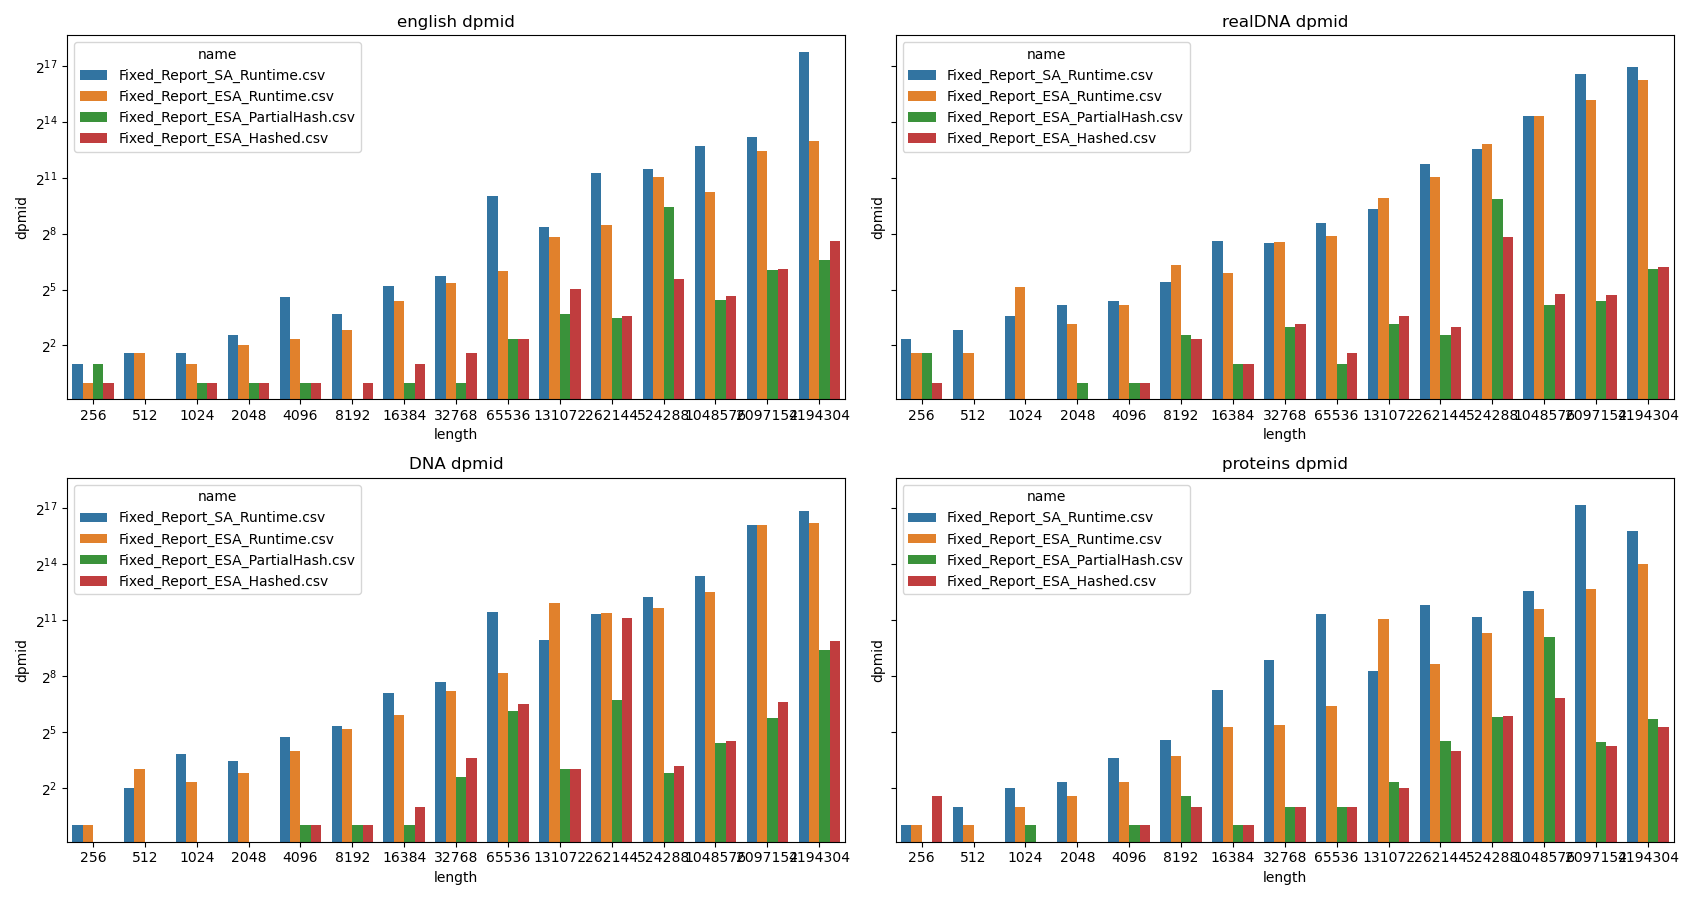
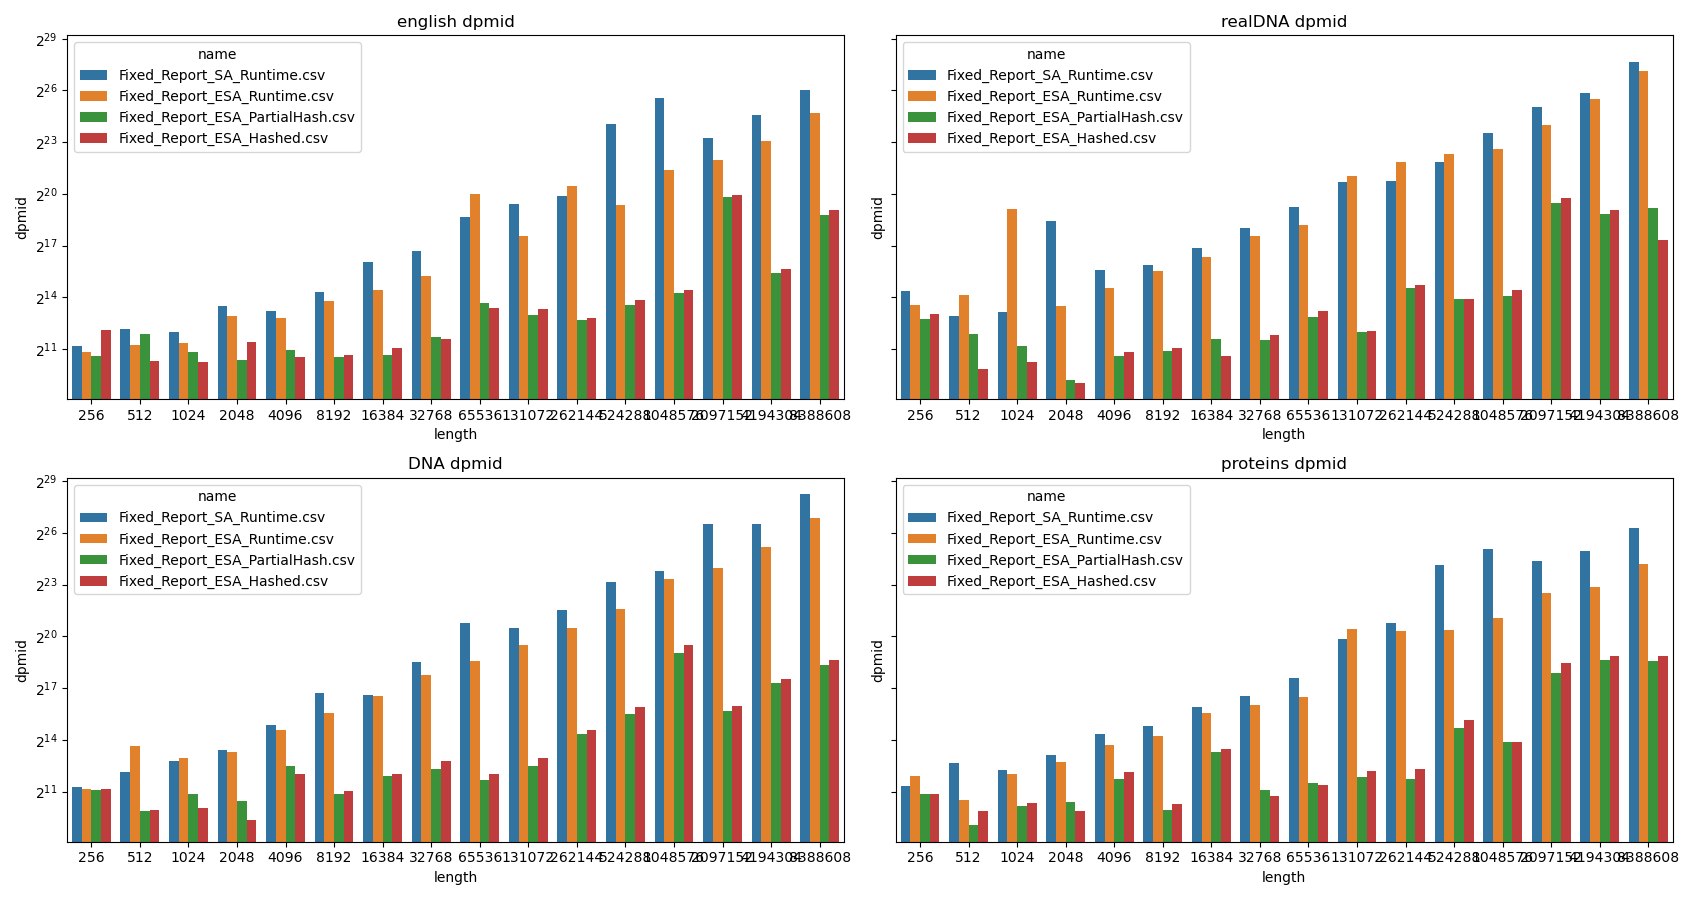
final diagrams

diff --git a/figures/singlePatternComparison.py b/figures/singlePatternComparison.py
@@ -5,15 +5,16 @@ import numpy as np
 import pandas as pd
 import matplotlib.pyplot as plt
 
-path = os.getcwd() + '\\Results_32\\'
+path = os.getcwd() + '\\Results\\'
 data_structures = [f for f in os.listdir(path) if os.path.isfile(os.path.join(path,f))]
 query = ['topMatching', 'midMatching', 'botMatching', 'construction', 'topReporting', 'midReporting', 'botReporting']
 
 dfAll = pd.DataFrame()
 for ds in data_structures:
-    df = pd.read_csv(path + ds)
-    df['name'] = ds
-    dfAll = pd.concat([df,dfAll])
+    if ds.startswith('Suffix') or ds.startswith('Precomp') or ds.startswith('Enhanced'):
+        df = pd.read_csv(path + ds)
+        df['name'] = ds
+        dfAll = pd.concat([df,dfAll])
     
 
 for q in query:

diff --git a/figures/createExistenceAndCountPlots.py b/figures/createExistenceAndCountPlots.py
@@ -5,7 +5,7 @@ import numpy as np
 import pandas as pd
 import matplotlib.pyplot as plt
 
-path = os.getcwd() + '\\Results_3\\'
+path = os.getcwd() + '\\Results\\'
 data_structures = [f for f in os.listdir(path) if os.path.isfile(os.path.join(path,f))]
 
 

diff --git a/figures/createFixedReportingPlots.py b/figures/createFixedReportingPlots.py
@@ -5,7 +5,7 @@ import numpy as np
 import pandas as pd
 import matplotlib.pyplot as plt
 
-path = os.getcwd() + '\\Results_3\\'
+path = os.getcwd() + '\\Results\\'
 data_structures = [f for f in os.listdir(path) if os.path.isfile(os.path.join(path,f))]
 
 

diff --git a/figures/createVariableReportingPlots.py b/figures/createVariableReportingPlots.py
@@ -5,7 +5,7 @@ import numpy as np
 import pandas as pd
 import matplotlib.pyplot as plt
 
-path = os.getcwd() + '\\Results_3\\'
+path = os.getcwd() + '\\Results\\'
 data_structures = [f for f in os.listdir(path) if os.path.isfile(os.path.join(path,f))]
 
 
